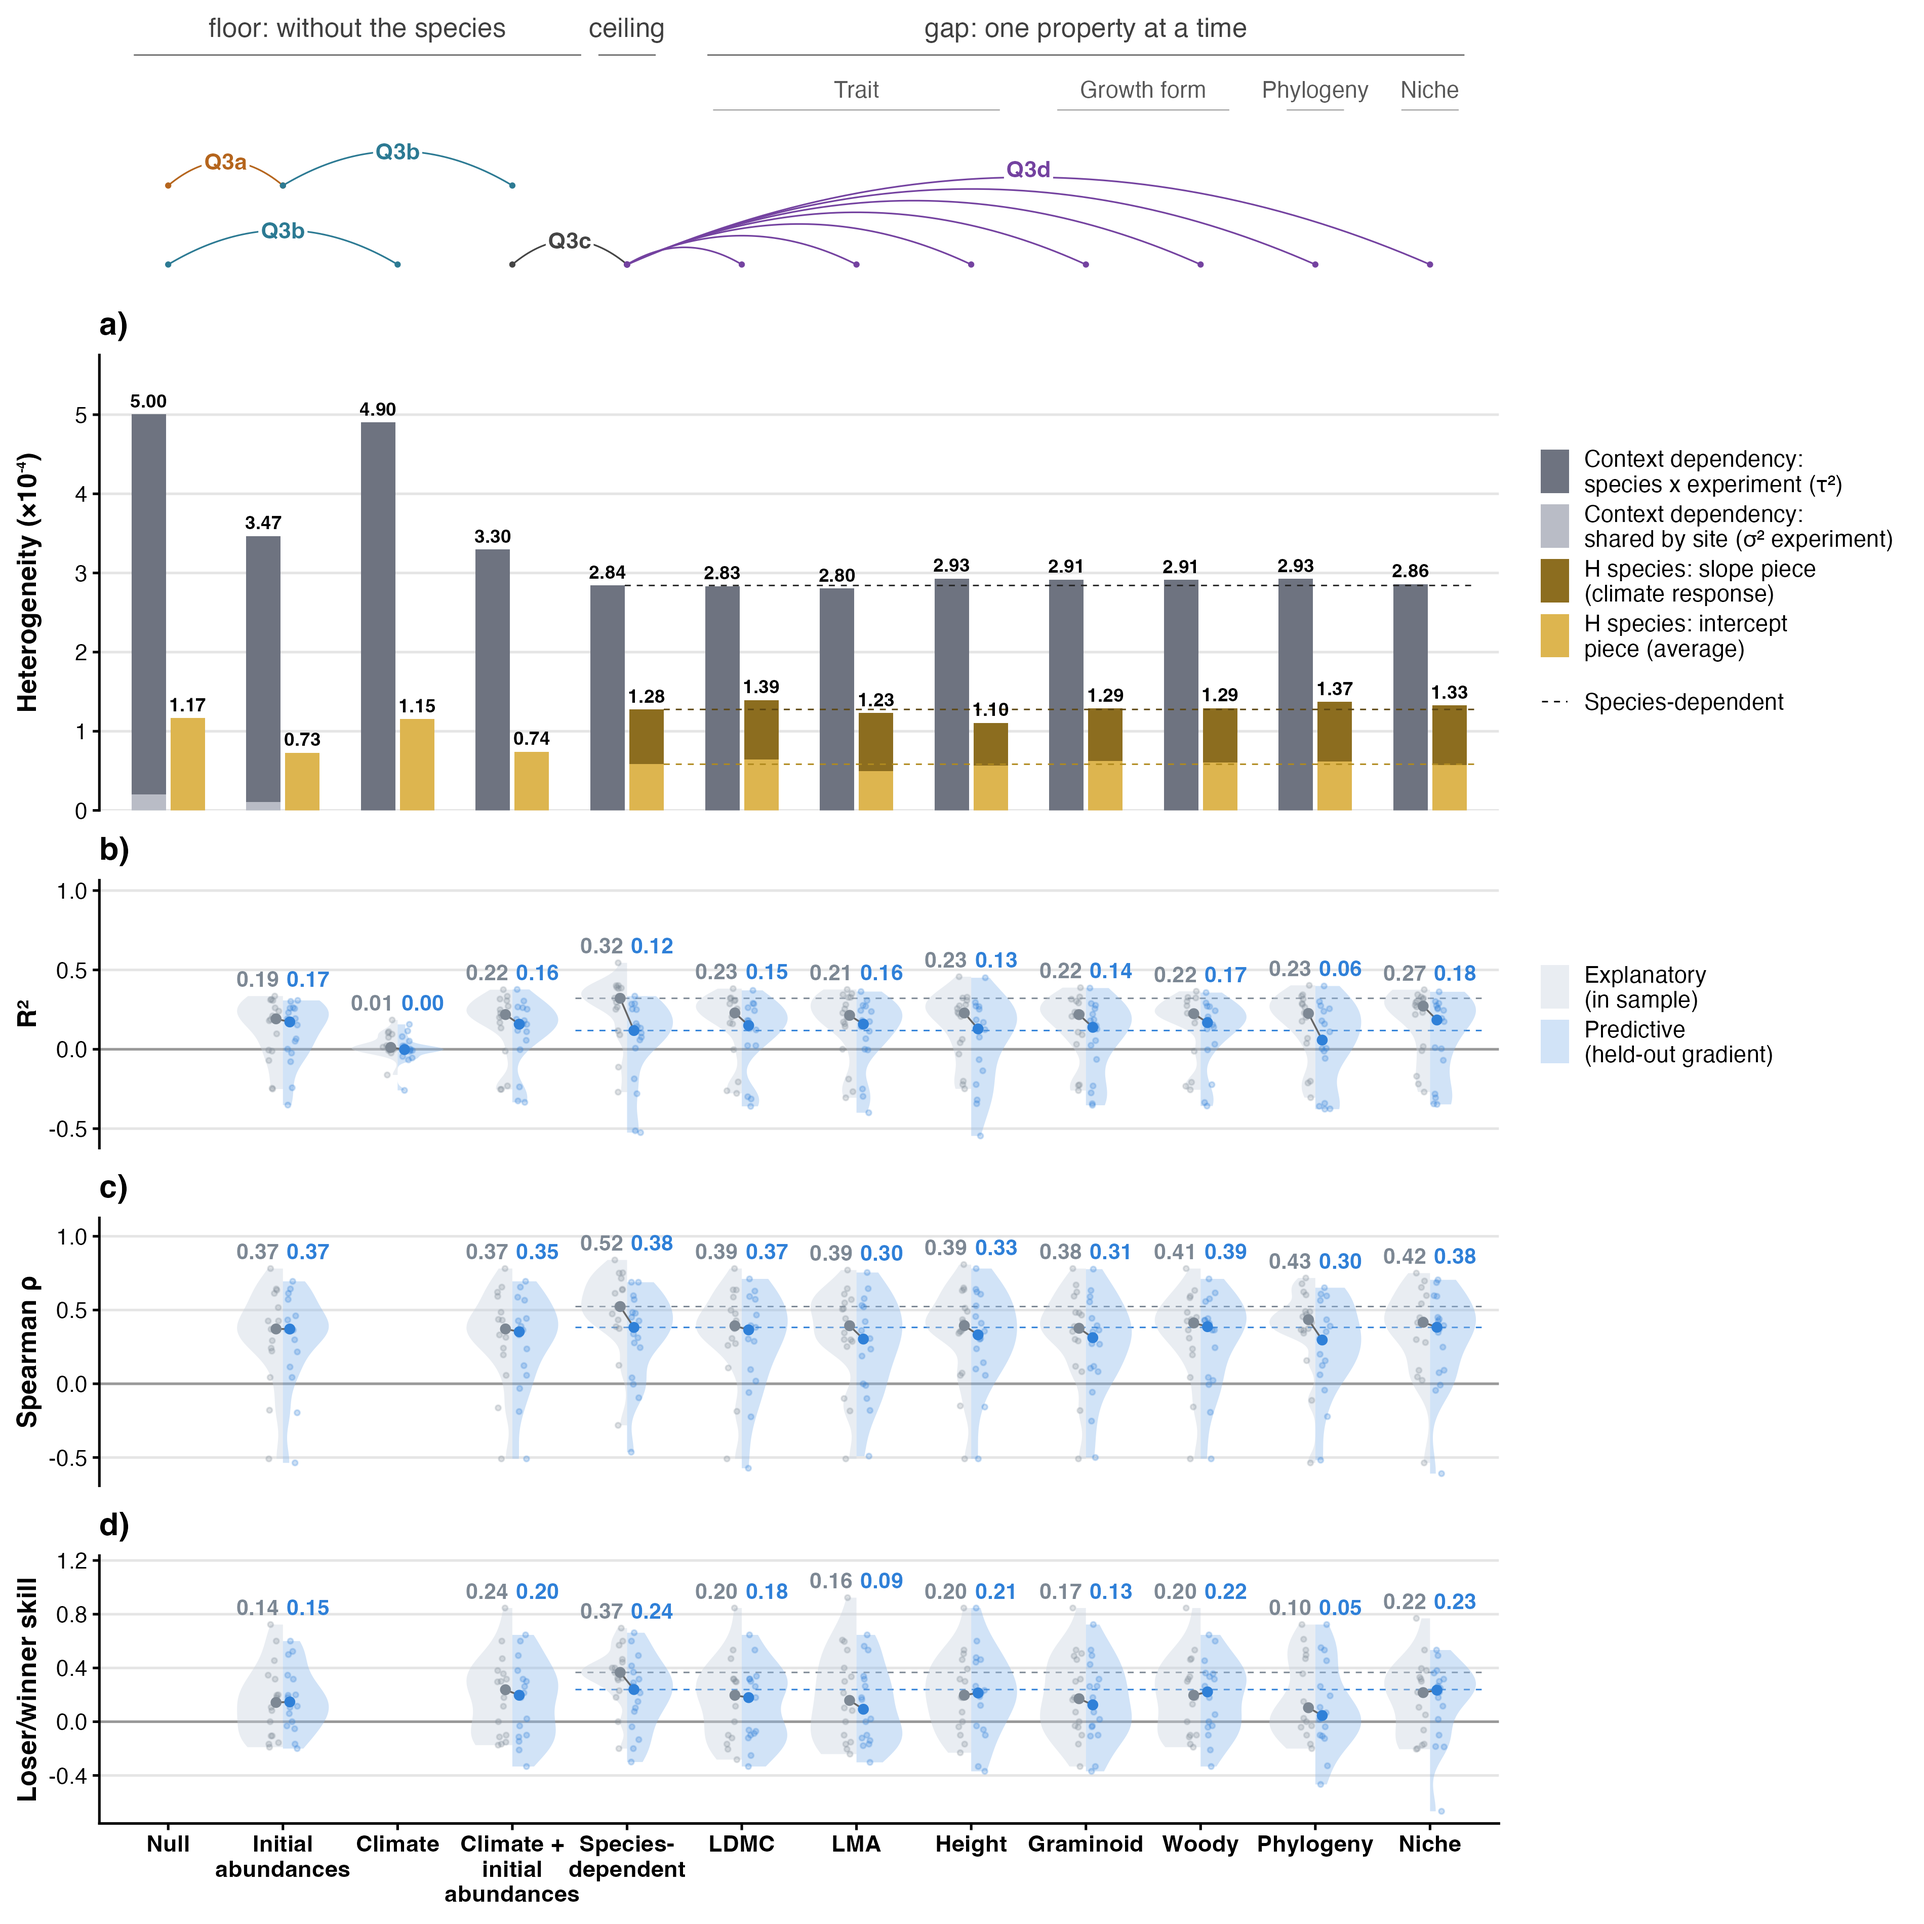
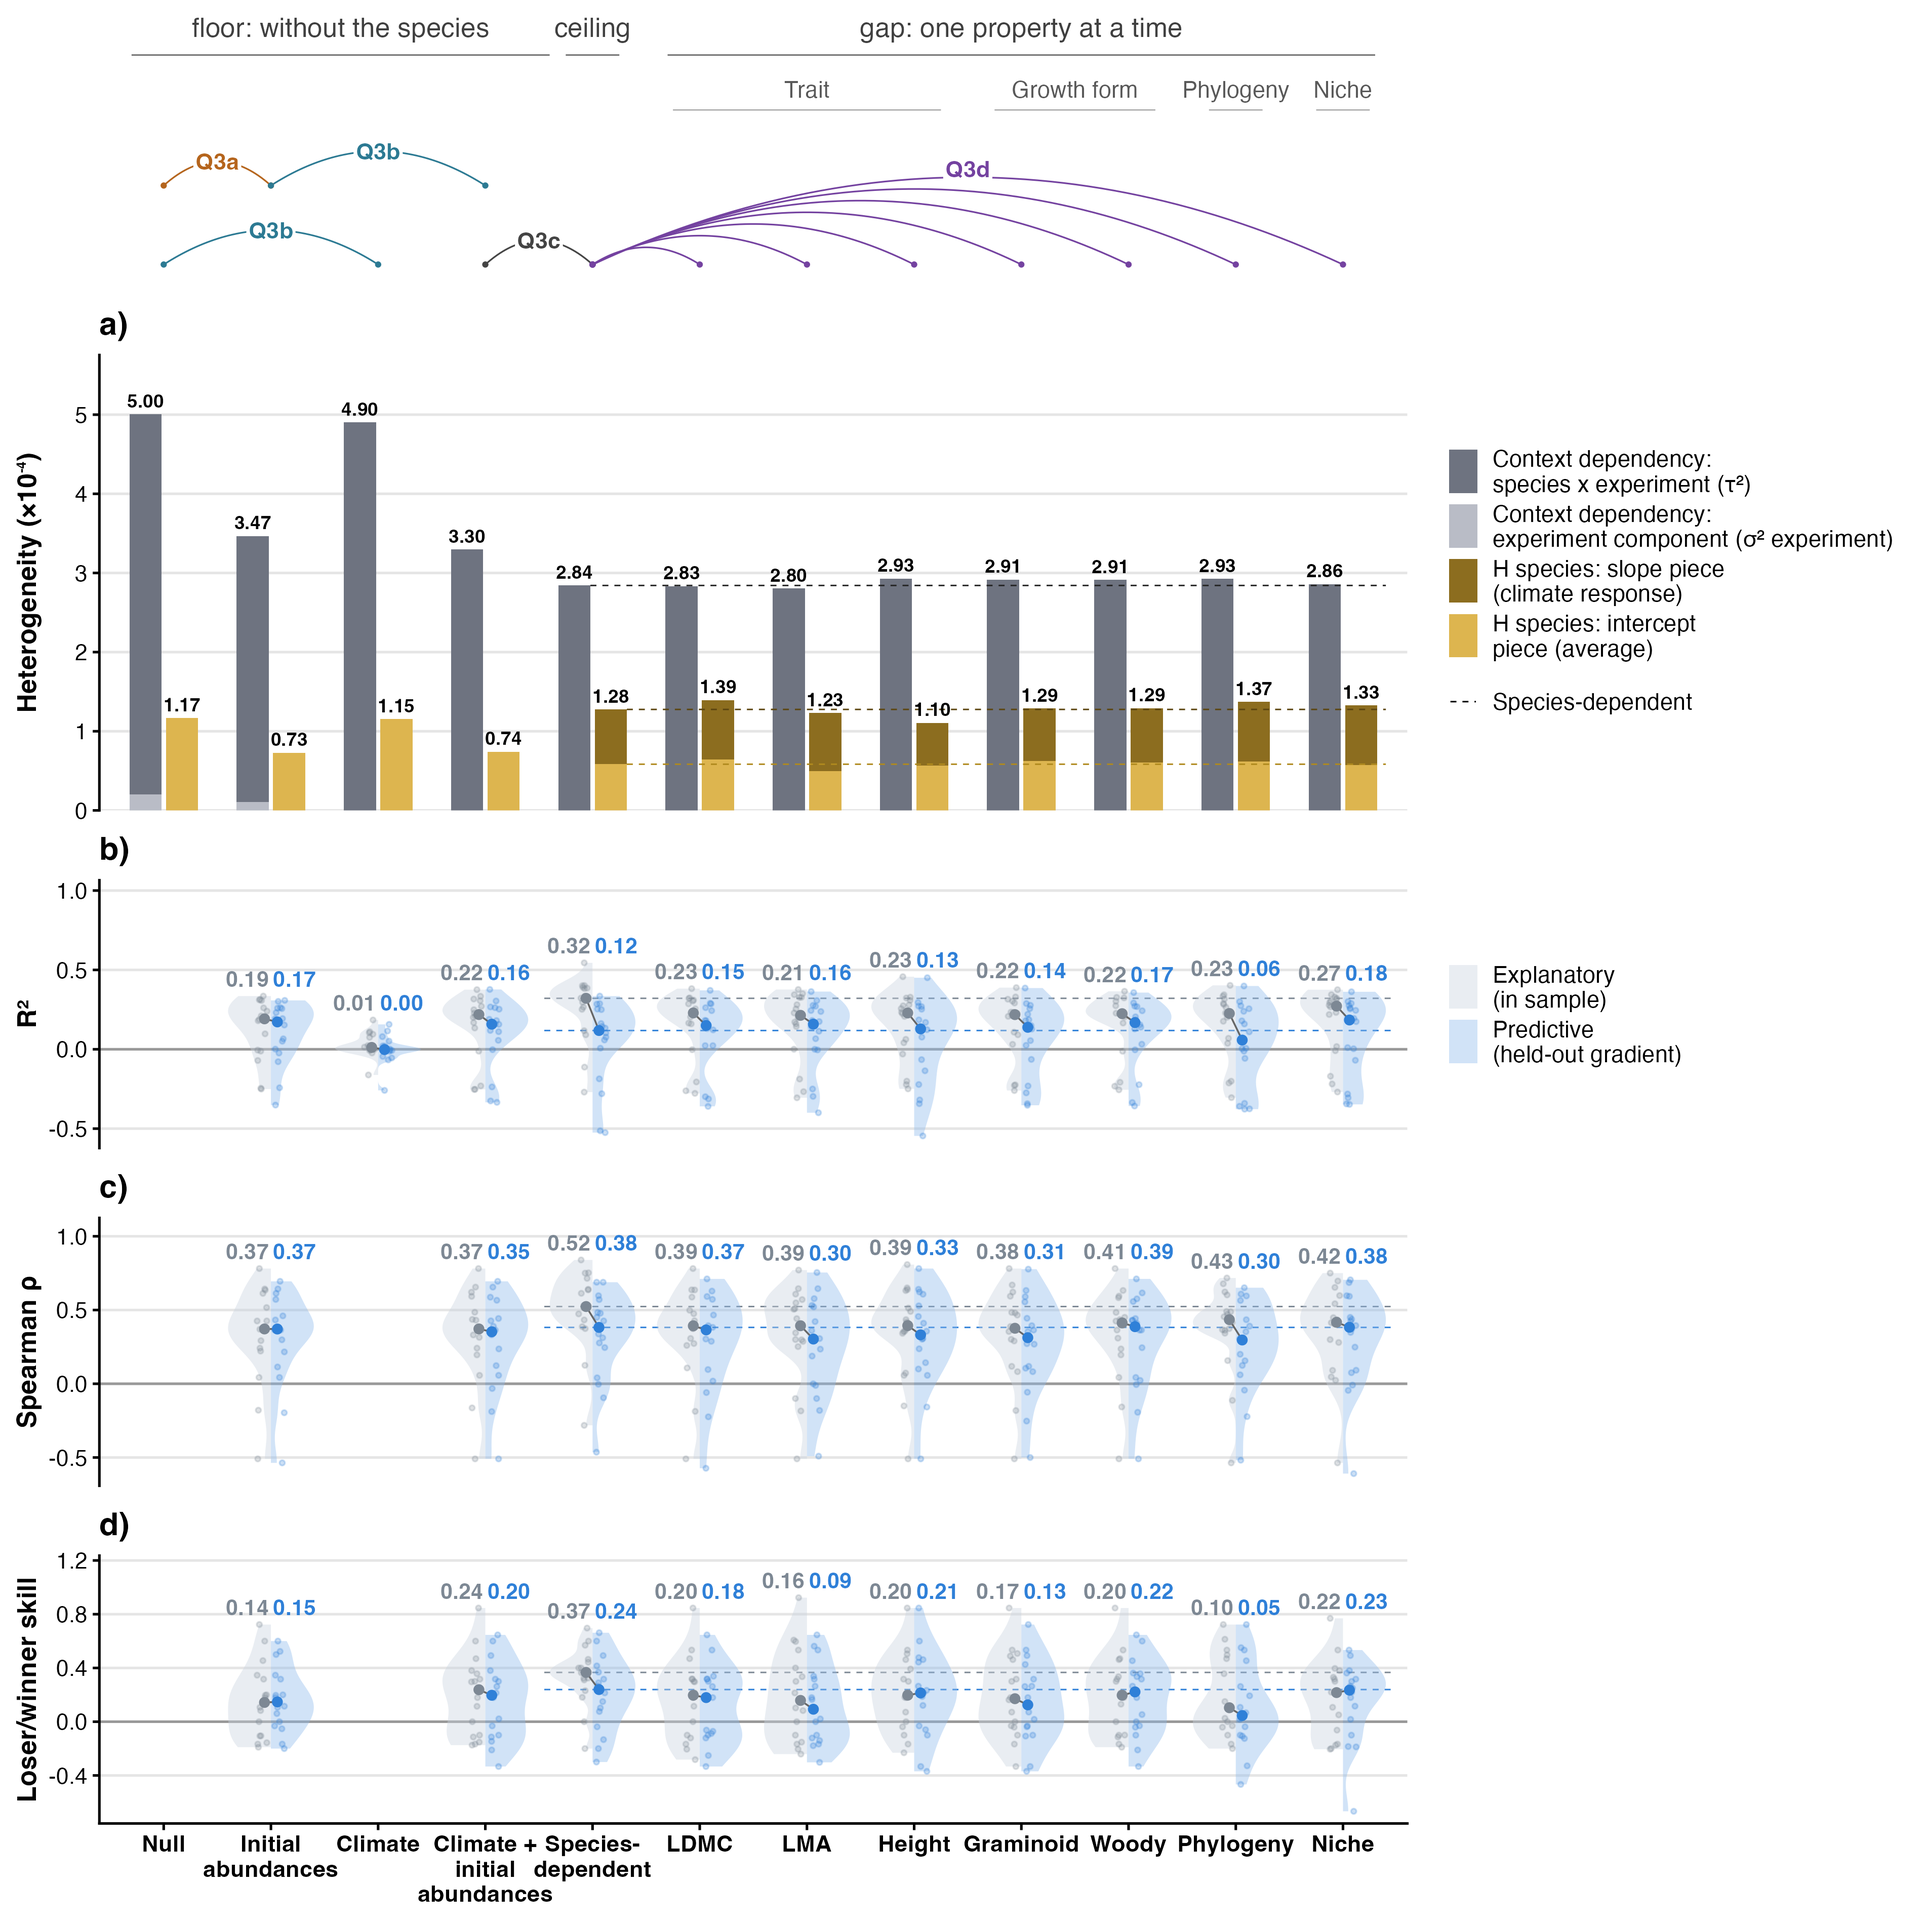
step 10: sigma2_experiment labelled the experiment component (Figs 6 and S16, README, step 05 report)

diff --git a/README.md b/README.md
@@ -205,7 +205,7 @@ Code: [`10_figures.R`](analysis/10_figures.R) · report [10](reports/10_figures.
 | Species-dependent | as Climate + start | + species slopes on W and on T, P, TP | Q3c, the ceiling |
 | LDMC, LMA, Height, Graminoid, Woody, Phylogeny, Niche | Climate + start + property × (1, W, T, P, TP) | as Species-dependent | Q3d, the properties |
 
-The heterogeneity of each model is split into the shared site shift σ²<sub>experiment</sub>, the species × experiment piece τ² and the species variance H<sub>species</sub> (intercept and slope pieces). For Q4 every gradient with at least 5 effects is held out in turn, the model refitted on the others, and its held-out strengths predicted from the fixed effects plus, from Species-dependent on, each species' deviation learned in the other gradients. Each level is scored per gradient by R² against the Null model on that gradient, Spearman's ρ and loser/winner skill, and summarised by medians.
+The heterogeneity of each model is split into the experiment component σ²<sub>experiment</sub>, the species × experiment piece τ² and the species variance H<sub>species</sub> (intercept and slope pieces). For Q4 every gradient with at least 5 effects is held out in turn, the model refitted on the others, and its held-out strengths predicted from the fixed effects plus, from Species-dependent on, each species' deviation learned in the other gradients. Each level is scored per gradient by R² against the Null model on that gradient, Spearman's ρ and loser/winner skill, and summarised by medians.
 
 **Decisions.**
 - W, T, P are the warming (destination − origin summer temperature), destination summer temperature and summer precipitation; A0 is log(% cover + 1) in the first survey of the origin and destination controls.
@@ -239,7 +239,7 @@ rf <- ranger::ranger(x = train[vars], y = train$strength, num.trees = 3000,
 
 ![Figure 6](figures/main/fig6.png)
 
-**Figure 6.** How much of the variation in losing-winning strength is explained, and how much is predicted for an unseen gradient. Models from left to right: Null; initial abundances at origin and destination (Q3a); warming and background climate (Climate, Q3b); both (Q3b); species-specific intercepts and climate slopes (Species-dependent, the ceiling, Q3c); and one model per species property added to the climate and initial-abundance model with the species terms kept (Q3d): leaf dry matter content (LDMC), leaf mass per area (LMA), vegetative height, graminoid and woody growth form, phylogenetic position (eigenvectors 1–3) and climatic niche (thermal and precipitation optima). Arcs mark the pairs of models that answer each question. (a) Heterogeneity left after each model (×10⁻⁴): context dependency (grey), stacked as the shift shared by all species of a site (σ²_experiment, light) under the species × experiment piece (τ², dark), and the variance among species in their fitted response (H_species, gold), stacked as the intercept piece (average differences among species) and the slope piece (differences in climate response). (b) R² against the Null model on the same gradient, (c) Spearman's rank correlation within the gradient and (d) loser/winner skill, loser recall plus winner recall minus one, on the 16 gradients with at least five effects: half violins of the gradient values in sample (grey, model fitted to all gradients) and for the gradient held out of the fit (blue), with medians as large points and numbers. Dashed lines are the Species-dependent values. The Null is zero by construction and not drawn; Climate predicts one value per gradient and has no Spearman or skill.
+**Figure 6.** How much of the variation in losing-winning strength is explained, and how much is predicted for an unseen gradient. Models from left to right: Null; initial abundances at origin and destination (Q3a); warming and background climate (Climate, Q3b); both (Q3b); species-specific intercepts and climate slopes (Species-dependent, the ceiling, Q3c); and one model per species property added to the climate and initial-abundance model with the species terms kept (Q3d): leaf dry matter content (LDMC), leaf mass per area (LMA), vegetative height, graminoid and woody growth form, phylogenetic position (eigenvectors 1–3) and climatic niche (thermal and precipitation optima). Arcs mark the pairs of models that answer each question. (a) Heterogeneity left after each model (×10⁻⁴): context dependency (grey), stacked as the experiment component, the shift common to all species of an experiment (σ²_experiment, light), under the species × experiment piece (τ², dark), and the variance among species in their fitted response (H_species, gold), stacked as the intercept piece (average differences among species) and the slope piece (differences in climate response). (b) R² against the Null model on the same gradient, (c) Spearman's rank correlation within the gradient and (d) loser/winner skill, loser recall plus winner recall minus one, on the 16 gradients with at least five effects: half violins of the gradient values in sample (grey, model fitted to all gradients) and for the gradient held out of the fit (blue), with medians as large points and numbers. Dashed lines are the Species-dependent values. The Null is zero by construction and not drawn; Climate predicts one value per gradient and has no Spearman or skill.
 
 ![Figure S11](figures/appendix/figS11.png)
 

diff --git a/reports/05_ladder_fit.md b/reports/05_ladder_fit.md
@@ -1,6 +1,6 @@
 # Step 05: The ladder, fitted (Step D, route 1, residents)
 
-The model ladder was fitted on the strength from year 3 (step 03b), on one set of rows (2 Nov): the 512 effects of the 71 residents found in at least 3 gradients that carry every property (39 experiments, 20 gradients). Null, Start, Climate, Climate + start, Species-dependent and one property model per property (LDMC, LMA, height, graminoid, woody, phylogeny as PEV1 to PEV3, niche as T_opt and P_opt) with the species slopes kept, 12 REML fits, all on the same rows. Each model reports τ² (species × experiment), σ²_experiment (shared site shift) and the two H_species pieces as raw values. The T, P, TP slope block is diagonal in every slope fit (Bills, 1 Nov). Fixed effects carry model-based (REML Wald) standard errors (Bills, 2 Nov; CR1 before). Fits ran in parallel on 7 cores, 11.1 fit-minutes in all; this run took 0 min.
+The model ladder was fitted on the strength from year 3 (step 03b), on one set of rows (2 Nov): the 512 effects of the 71 residents found in at least 3 gradients that carry every property (39 experiments, 20 gradients). Null, Start, Climate, Climate + start, Species-dependent and one property model per property (LDMC, LMA, height, graminoid, woody, phylogeny as PEV1 to PEV3, niche as T_opt and P_opt) with the species slopes kept, 12 REML fits, all on the same rows. Each model reports τ² (species × experiment), σ²_experiment (experiment component) and the two H_species pieces as raw values. The T, P, TP slope block is diagonal in every slope fit (Bills, 1 Nov). Fixed effects carry model-based (REML Wald) standard errors (Bills, 2 Nov; CR1 before). Fits ran in parallel on 7 cores, 11.1 fit-minutes in all; this run took 0 min.
 
 ## Slope structure
 
